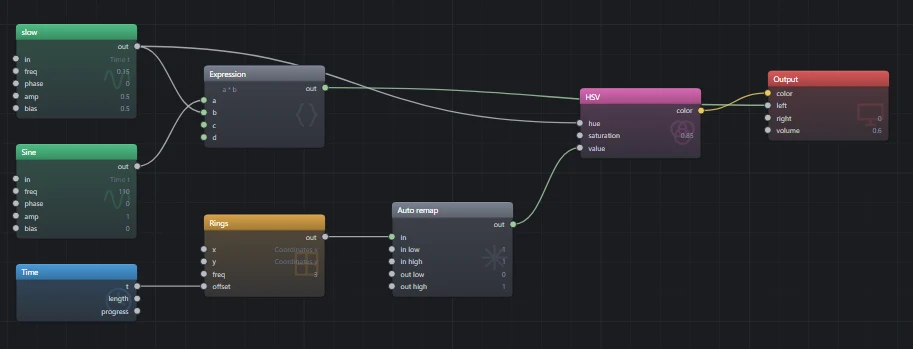
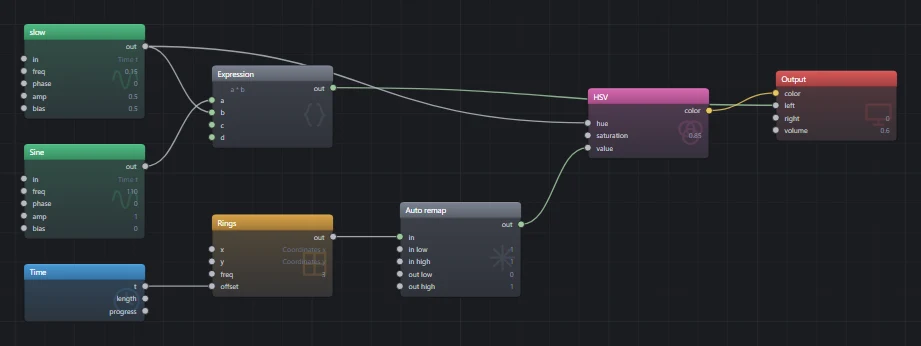
flyback-cli shot shows the canvas for a text patch with --canvas, and crops to the modules with --crop
A canvas figure of a text patch took packing it into a bundle first and cropping
the window by eye. --canvas shows the canvas where the text is the document, and
--crop writes only the canvas around the modules with 24 pixels of room, the same
crop the patch figures get. The tutorial's canvas shot is retaken with it.

diff --git a/site/tutorials.html b/site/tutorials.html
@@ -320,7 +320,7 @@
 
     <figure class="wide-shot">
       <a class="zoom" href="assets/shots/tutorial-canvas.webp">
-        <img class="shot" loading="lazy" src="assets/shots/tutorial-canvas.webp" width="913" height="349"
+        <img class="shot" loading="lazy" src="assets/shots/tutorial-canvas.webp" width="921" height="346"
              alt="The finished patch on the canvas: a Sine and a Sine named slow into an Expression multiplying them, slow into HSV's hue, Rings with Time on its offset through an Auto remap into HSV's value, and HSV and the Expression into the Output.">
       </a>
       <figcaption>The finished patch. As the tone swells, the rings move through the color wheel with it, because

diff --git a/site/index.html b/site/index.html
@@ -718,6 +718,7 @@ flyback-cli print nebula.fbk -o nebula.fbks
 flyback-cli print --preset "Whole band"
 flyback-cli pack --preset "Mycelium" -o mycelium.fbkb
 flyback-cli shot --preset "Flyback Theme" -o theme.png --at 30.3
+flyback-cli shot drone.fbks -o drone.png --crop
 flyback-viewer nebula.fbk --size 1080p
 flyback-cli viewer --preset "No Sense Dub" --hidden --for 10</code></pre>
       </div>

diff --git a/src/Flyback.App/Shots/Shot.cs b/src/Flyback.App/Shots/Shot.cs
@@ -1,3 +1,4 @@
+using Avalonia;
 using Avalonia.Headless;
 using Avalonia.Media.Imaging;
 using Avalonia.Threading;
@@ -6,6 +7,7 @@ using Flyback.App.Bars;
 using Flyback.App.Canvas;
 using Flyback.App.Controls;
 using Flyback.App.Files;
+using Flyback.App.Notices;
 using Flyback.App.Settings;
 using Flyback.App.Windows;
 using Flyback.Core.Graph;
@@ -30,6 +32,9 @@ internal static class Shot
 
     /// <summary>How long the picture runs up to the moment, and how far apart its frames are.</summary>
     private const double RunUp = 1.5, Step = 1d / 20;
+
+    /// <summary>The canvas a crop keeps around the modules, in pixels, so a wire leaving one is not cut off.</summary>
+    private const double Margin = 24;
 
     /// <summary>How long any one wait may take before the shot gives up.</summary>
     private static readonly TimeSpan Patience = TimeSpan.FromMinutes(1);
@@ -85,6 +90,8 @@ internal static class Shot
 
             if (request.Patch is { } path && !await OpenAsync(provider, path, error)) return Failed;
 
+            if (request.Canvas) await provider.GetRequiredService<Reactions>().RaiseAsync(new CodeAsked(false));
+
             var playback = provider.GetRequiredService<Playback>();
             await Until(() => !playback.Starting, "the patch to compile", window);
 
@@ -100,10 +107,14 @@ internal static class Shot
             provider.GetRequiredService<StatusBar>().Update();
             Settle(window);
 
+            // Read before the capture: a window that settles again fits the view again.
+            var around = request.Crop ? Around(canvas, window) : (Rect?)null;
+
             using var frame = window.CaptureRenderedFrame()
                 ?? throw new InvalidOperationException("The window drew nothing to capture.");
 
-            frame.Save(request.Out, new PngBitmapEncoderOptions());
+            if (around is { } to) Crop(frame, to, request.Out);
+            else frame.Save(request.Out, new PngBitmapEncoderOptions());
 
             return Ok;
         }
@@ -167,6 +178,33 @@ internal static class Shot
         return false;
 
         static bool Named(string title, string name) => string.Equals(title, name, StringComparison.OrdinalIgnoreCase);
+    }
+
+    /// <summary>The modules with <see cref="Margin"/> around them, in the window's pixels, kept inside the canvas.</summary>
+    private static Rect Around(NodeEditor canvas, MainWindow window)
+    {
+        var modules = canvas.Selection.Scene.OnCanvas().Aggregate(default(Rect?), (all, one) => all?.Union(one) ?? one)
+            ?? throw new InvalidOperationException("the patch has no modules to crop to.");
+
+        var origin = canvas.TranslatePoint(default, window)
+            ?? throw new InvalidOperationException("the canvas is not showing.");
+
+        var shown = new Rect(origin, canvas.Bounds.Size);
+
+        return canvas.View.OnScreen(modules).Inflate(Margin).Translate(origin).Intersect(shown);
+    }
+
+    private static void Crop(Bitmap whole, Rect to, string path)
+    {
+        var size = new PixelSize((int)Math.Round(to.Width), (int)Math.Round(to.Height));
+
+        using var target = new RenderTargetBitmap(size);
+        using (var context = target.CreateDrawingContext())
+        {
+            context.DrawImage(whole, to, new Rect(size.ToSize(1)));
+        }
+
+        target.Save(path, new PngBitmapEncoderOptions());
     }
 
     /// <summary>

diff --git a/src/Flyback.App/Shots/ShotRequest.cs b/src/Flyback.App/Shots/ShotRequest.cs
@@ -10,7 +10,10 @@ namespace Flyback.App.Shots;
 /// <param name="Width">The window's width, in pixels.</param>
 /// <param name="Height">The window's height, in pixels.</param>
 /// <param name="Select">The box or module to select, by name, or null for nothing.</param>
-internal sealed record ShotRequest(string Out, string? Patch, string? Preset, double At, int Width, int Height, string? Select)
+/// <param name="Canvas">Whether the canvas shows, even for a patch whose text is the document.</param>
+/// <param name="Crop">Whether only the canvas around the modules is written.</param>
+internal sealed record ShotRequest(
+    string Out, string? Patch, string? Preset, double At, int Width, int Height, string? Select, bool Canvas = false, bool Crop = false)
 {
     public const string Flag = "--shot";
 
@@ -18,7 +21,7 @@ internal sealed record ShotRequest(string Out, string? Patch, string? Preset, do
     public static bool Claims(string[] args) => args.Length > 0 && args[0] == Flag;
 
     /// <summary>
-    /// Reads <c>--shot OUT --at SECONDS --size WxH [--select NAME] (--preset NAME | PATCH)</c>,
+    /// Reads <c>--shot OUT --at SECONDS --size WxH [--select NAME] [--canvas] [--crop] (--preset NAME | PATCH)</c>,
     /// or says on <paramref name="error"/> what is wrong with it.
     /// </summary>
     public static ShotRequest? Parse(string[] args, TextWriter error)
@@ -27,6 +30,7 @@ internal sealed record ShotRequest(string Out, string? Patch, string? Preset, do
 
         var output = args[1];
         string? patch = null, preset = null, select = null;
+        bool canvas = false, crop = false;
         var at = 0d;
         var (width, height) = (0, 0);
 
@@ -37,6 +41,13 @@ internal sealed record ShotRequest(string Out, string? Patch, string? Preset, do
             if (!flag.StartsWith("--", StringComparison.Ordinal))
             {
                 patch = flag;
+                continue;
+            }
+
+            if (flag == "--canvas" || flag == "--crop")
+            {
+                canvas = true;
+                crop |= flag == "--crop";
                 continue;
             }
 
@@ -66,7 +77,7 @@ internal sealed record ShotRequest(string Out, string? Patch, string? Preset, do
         if ((patch is null) == (preset is null)) return Refuse("give a patch or --preset, and not both.");
         if (width == 0) return Refuse("give --size as WIDTHxHEIGHT.");
 
-        return new ShotRequest(output, patch, preset, at, width, height, select);
+        return new ShotRequest(output, patch, preset, at, width, height, select, canvas, crop);
 
         ShotRequest? Refuse(string why)
         {

diff --git a/tests/Flyback.Specs/Steps/CliSteps.cs b/tests/Flyback.Specs/Steps/CliSteps.cs
@@ -132,14 +132,19 @@ public sealed class CliSteps(PatchContext context) : IDisposable
     public void WhenPackageDescribed() => Run("plugin", "describe", Path(PackageName));
 
     [When("flyback-cli shoots {string} at {int} second(s)")]
-    public void WhenShot(string name, int seconds)
+    public void WhenShot(string name, int seconds) => Shoot(name, seconds);
+
+    [When("flyback-cli shoots {string} at {int} second(s), cropped to the modules")]
+    public void WhenShotCropped(string name, int seconds) => Shoot(name, seconds, "--crop");
+
+    private void Shoot(string name, int seconds, params string[] more)
     {
         var before = ShotCommand.Beside;
         ShotCommand.Beside = BuiltEditor;
 
         try
         {
-            Run("shot", Path(name), "--at", seconds.ToString(System.Globalization.CultureInfo.InvariantCulture), "-o", Path(ShotName));
+            Run(["shot", Path(name), "--at", seconds.ToString(System.Globalization.CultureInfo.InvariantCulture), "-o", Path(ShotName), .. more]);
         }
         finally
         {
@@ -171,6 +176,17 @@ public sealed class CliSteps(PatchContext context) : IDisposable
 
         (shot.Width, shot.Height).ShouldBe((width, height));
         White(shot).ShouldBeLessThan(0.01);
+    }
+
+    /// <summary>A Sine and the Output beside it, with nothing of the toolbar or the preview around them.</summary>
+    [Then("the shot is two modules side by side, smaller than the window")]
+    public void ThenShotCropped()
+    {
+        var shot = Shot();
+
+        shot.Width.ShouldBeLessThan(1440 * 2 / 3);
+        shot.Height.ShouldBeLessThan(900 / 2);
+        shot.Width.ShouldBeGreaterThan(shot.Height * 2);
     }
 
     /// <summary>The preview is a tenth of the window or more, and nothing else in it is pure white in bulk.</summary>

diff --git a/src/Flyback.Cli/Commands/ShotCommand.cs b/src/Flyback.Cli/Commands/ShotCommand.cs
@@ -59,9 +59,19 @@ internal static class ShotCommand
             Description = "A box or module to select, by name, so the inspector shows it.",
         };
 
+        var canvas = new Option<bool>("--canvas")
+        {
+            Description = "Show the canvas, even for a patch whose text is the document.",
+        };
+
+        var crop = new Option<bool>("--crop")
+        {
+            Description = "Write only the canvas around the modules. Shows the canvas.",
+        };
+
         var command = new Command("shot", "Draw the editor's window with a patch open, at a chosen second, into a PNG.")
         {
-            patch, preset, output, at, size, select,
+            patch, preset, output, at, size, select, canvas, crop,
         };
 
         command.SetAction(result =>
@@ -98,6 +108,8 @@ internal static class ShotCommand
             ];
 
             if (result.GetValue(select) is { } selected) arguments.AddRange(["--select", selected]);
+            if (result.GetValue(canvas)) arguments.Add("--canvas");
+            if (result.GetValue(crop)) arguments.Add("--crop");
 
             arguments.AddRange(file is not null ? [file.FullName] : ["--preset", named!]);
 

diff --git a/README.md b/README.md
@@ -176,7 +176,7 @@ flyback-cli viewer nebula.fbk
 - `pack`: packs a patch together with the files it references; `--preset` packs a shipped preset with the files it carries
 - `pack-plugin`: builds a plugin into a `.fbkp`, signed with the key `--key` names
 - `plugin-key`: makes the key a plugin's packages are signed with, which every update must be signed with too
-- `shot`: draws the editor's window with the patch open into a PNG, with no screen and no sound: `--at` is the second the picture is of, run up to from a second and a half before; `--size` is the window's, 1440x900 unless given; `--select` selects a box or module by name, so the inspector shows it. `Flyback --shot`, beside it, does the drawing (ADR-0166)
+- `shot`: draws the editor's window with the patch open into a PNG, with no screen and no sound: `--at` is the second the picture is of, run up to from a second and a half before; `--size` is the window's, 1440x900 unless given; `--select` selects a box or module by name, so the inspector shows it; `--canvas` shows the canvas for a patch whose text is the document; `--crop` writes only the canvas around the modules, with 24 pixels of room. `Flyback --shot`, beside it, does the drawing (ADR-0166)
 - `viewer`: starts `flyback-viewer` with everything after the word, so `flyback-cli viewer --help` is the viewer's own help
 - `print`: writes the patch out as text in the language, and can check that the text builds back to the same program; `--preset` prints a shipped preset by name, and `--presets` lists them
 - `compare`: plays two patches side by side for `--seconds` at `--size` and says whether they are the same instrument, sample for sample and pixel for pixel, and where they first part when they are not; it exits `1` when they differ

diff --git a/.claude/skills/site-screenshots/SKILL.md b/.claude/skills/site-screenshots/SKILL.md
@@ -37,7 +37,7 @@ flyback-cli shot --preset "Flyback Theme" -o theme.png --at 30.3 --size 1440x900
 
 Run it from a folder holding the CLI, the editor and the plugins together (a publish, or the editor's build output with `flyback-cli`'s build copied in). A shot has no title bar, says CPU on the status bar, and shows no popup, dropdown or dialog; a picture that needs any of those comes from the real window, by the recipe below.
 
-flyback-theme.webp and plasma.webp (1440x900) are that command as it stands, Plasma at `--at 55.7` with nothing selected. tutorial-canvas.webp is the tutorial's section-6 text saved as `t5.fbks`, packed with `flyback-cli pack t5.fbks -o t5.fbkb` so it opens on the canvas rather than the text, shot at `--at 8`, and cropped to the modules with about 20 px of canvas around them.
+flyback-theme.webp and plasma.webp (1440x900) are that command as it stands, Plasma at `--at 55.7` with nothing selected. tutorial-canvas.webp is the tutorial's section-6 text saved as `t5.fbks` and shot with `--at 8 --crop`, which shows the canvas rather than the text and keeps only the modules with 24 px around them.
 
 The full-window shots in `site/assets/shots` (nebula.webp, whole-band.webp, euclid-kit.webp, the other plasma-*.webp; 1600x863) are the maximized app with a saved preset opened from the command line (`Flyback.exe nebula.fbk`), patch framed, caught at a chosen `t`. `flyback-cli pack --preset <name> -o <name>.fbkb` writes the preset out; for the shots that show shut boxes (whole-band, euclid-kit), set every `Group.Collapsed` in the bundle's `patch.fbk`, since a bundle is a zip. A stale one goes on the list above rather than being retaken in the UI change's commit.
 

diff --git a/docs/adr/0166-flyback-cli-shot-draws-the-editors-window-with-no-screen.md b/docs/adr/0166-flyback-cli-shot-draws-the-editors-window-with-no-screen.md
@@ -19,7 +19,8 @@ the canvas alone a headless test (`PatchShotTests`). The window was neither.
 
 **`flyback-cli shot` writes a PNG of the editor's window with a patch open.** A file
 or `--preset`, `--at` for the second the picture is of, `--size` for the window and
-`--select` for a box or module the inspector shows.
+`--select` for a box or module the inspector shows. `--canvas` shows the canvas where
+the text is the document, and `--crop` keeps only the canvas around the modules.
 
 **The CLI checks the request and `Flyback --shot` draws it.** The CLI keeps carrying
 no Avalonia ([0157](0157-flyback-cli-render-draws-on-the-gpu.md)), so it opens the

diff --git a/CHANGELOG.md b/CHANGELOG.md
@@ -2,7 +2,7 @@
 
 ## Unreleased
 
-- `flyback-cli shot` draws the editor's window with a patch open into a PNG, its picture at the second `--at` names, with no screen and no sound.
+- `flyback-cli shot` draws the editor's window with a patch open into a PNG, its picture at the second `--at` names, with no screen and no sound; `--crop` keeps only the canvas around the modules.
 - Flyback Theme is a showcase preset: Flyback's own song, three minutes of synthwave in A minor on a two-channel scope.
 - The Output's Volume is on the toolbar, beside the seek bar.
 - Emptying the length box beside the seek bar takes the patch's length away.
